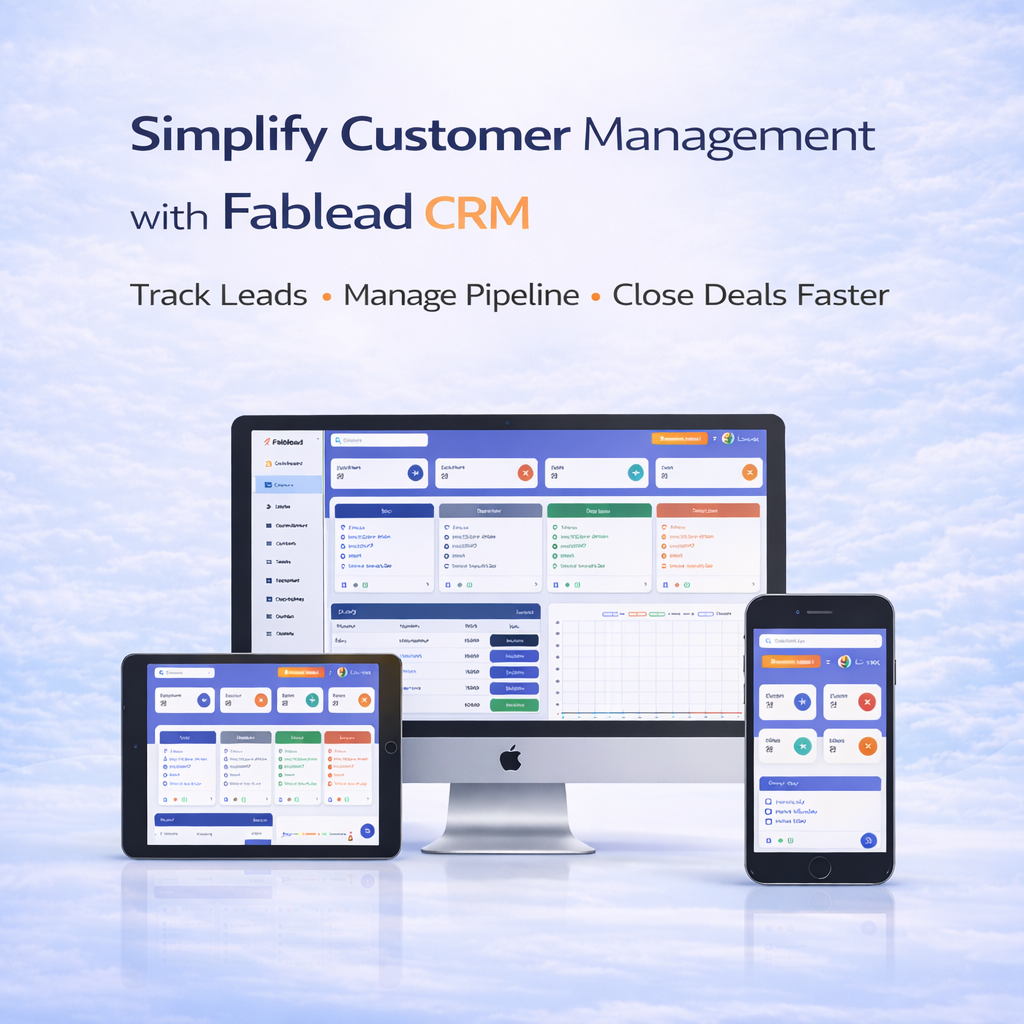
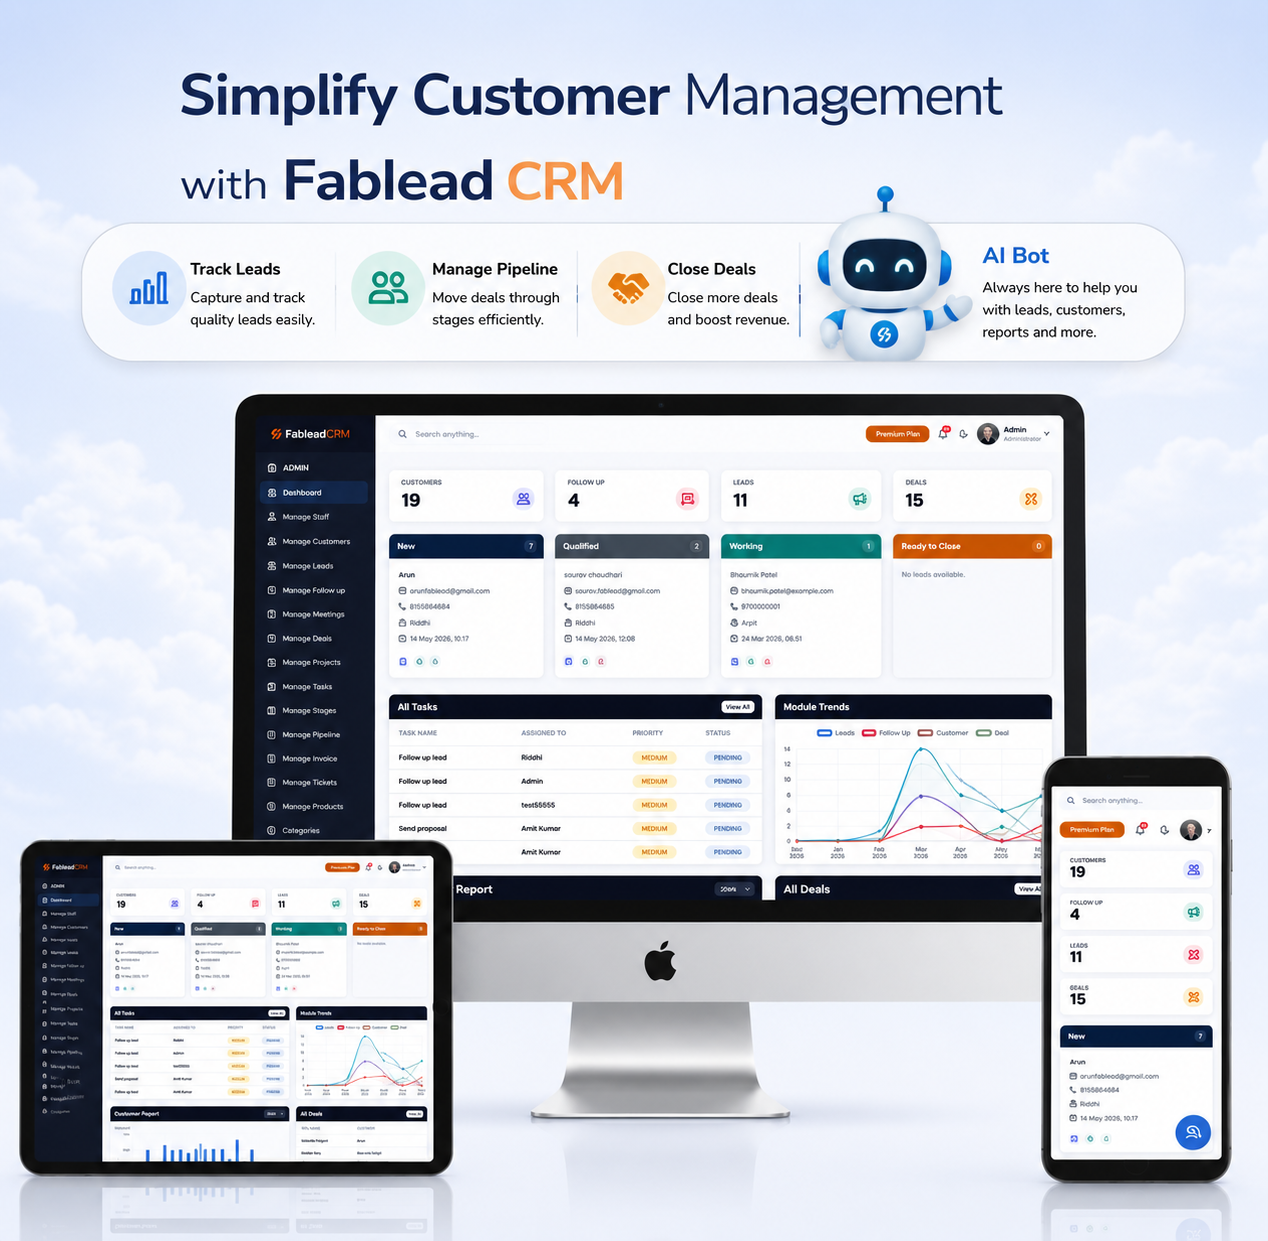
ai chat feature added and images chanegd

diff --git a/src/components/productsPages/crm.js b/src/components/productsPages/crm.js
@@ -9,6 +9,7 @@ import Deal from "../../assets/images/Products/CRM/fableadtechnolabs-crm-deal-ma
 import followup from "../../assets/images/Products/CRM/fableadtechnolabs-crm-followup-tracking-page.png";
 import Lead from "../../assets/images/Products/CRM/fableadtechnolabs-crm-lead-management-page.png";
 import Pipeline from "../../assets/images/Products/CRM/fableadtechnolabs-crm-sales-pipeline-page.png";
+import crmwp from "../../assets/images/Products/CRM/fableadtechnolabs-crm-wp-chat.png";
 import Crm_main_feb from "../../assets/images/Products/CRM/fableadtechnolabs-crm-dashboard-main.png";
 import InnerCallToLog from "../innerCallToLog";
 import { Check2, ChevronDown, ChevronUp } from "react-bootstrap-icons";
@@ -24,6 +25,7 @@ function CRM() {
     item1: true,
     item2: false,
     item3: false,
+    item4: false,
   });
 
   const handleAccordionToggle = (item) => {
@@ -341,6 +343,49 @@ function CRM() {
                               </div>
                             </li>
 
+                            {/* Item 4 */}
+                            <li>
+                              <a
+                                data-bs-toggle="collapse"
+                                className={`collapse ${accordionState.item4 ? "show" : ""}`}
+                                onClick={() => handleAccordionToggle("item4")}
+                              >
+                                04. Chat with AI Assistant{" "}
+                                {accordionState.item4 ? (
+                                  <ChevronUp className="icon-close float-end" />
+                                ) : (
+                                  <ChevronDown className="icon-show float-end" />
+                                )}
+                              </a>
+
+                              <div
+                                id="accordion-list-4"
+                                className={`collapse ${accordionState.item4 ? "show" : ""}`}
+                                data-bs-parent=".accordion-list"
+                              >
+                                <ul className="list-unstyled">
+                                  <li>
+                                    <Check2 className="service-icon me-2" />
+                                    <strong>Instant AI Support:</strong> Get quick answers and insights from your AI-powered CRM assistant.
+                                  </li>
+
+                                  <li>
+                                    <Check2 className="service-icon me-2" />
+                                    <strong>Task Automation:</strong> Automate routine tasks, queries, and customer interactions with smart chatbot support.
+                                  </li>
+
+                                  <li>
+                                    <Check2 className="service-icon me-2" />
+                                    <strong>Smart Recommendations:</strong> Receive intelligent suggestions for lead prioritization and follow-ups.
+                                  </li>
+
+                                  <li>
+                                    <Check2 className="service-icon me-2" />
+                                    <strong>Quick Actions:</strong> Improve productivity using natural language commands and fast CRM actions.
+                                  </li>
+                                </ul>
+                              </div>
+                            </li>
 
                           </ul>
                         </div>
@@ -388,6 +433,16 @@ function CRM() {
                       alt="Fablead Technolabs CRM pipeline management dashboard"
                     />
                   </div>
+
+                   <div>
+                    <Image
+                      src={crmwp}
+                      loading="lazy"
+                      className="img-fluid rounded zoom-img"
+                      alt="Fablead Technolabs Whatsapp chats management dashboard"
+                    />
+                  </div>
+                  
                 </Slider>
               </Col>
             </Row>
